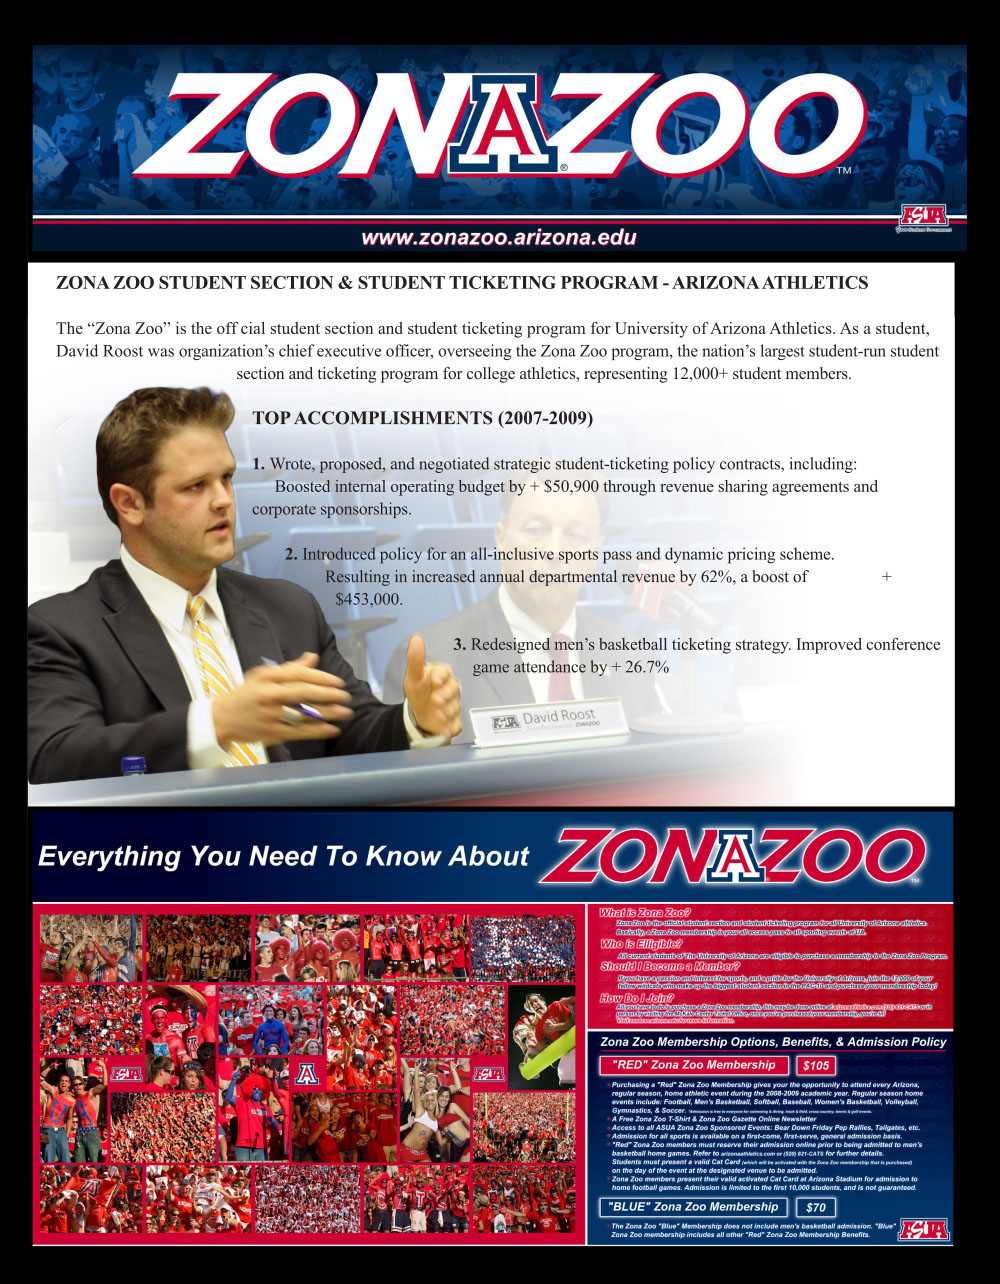
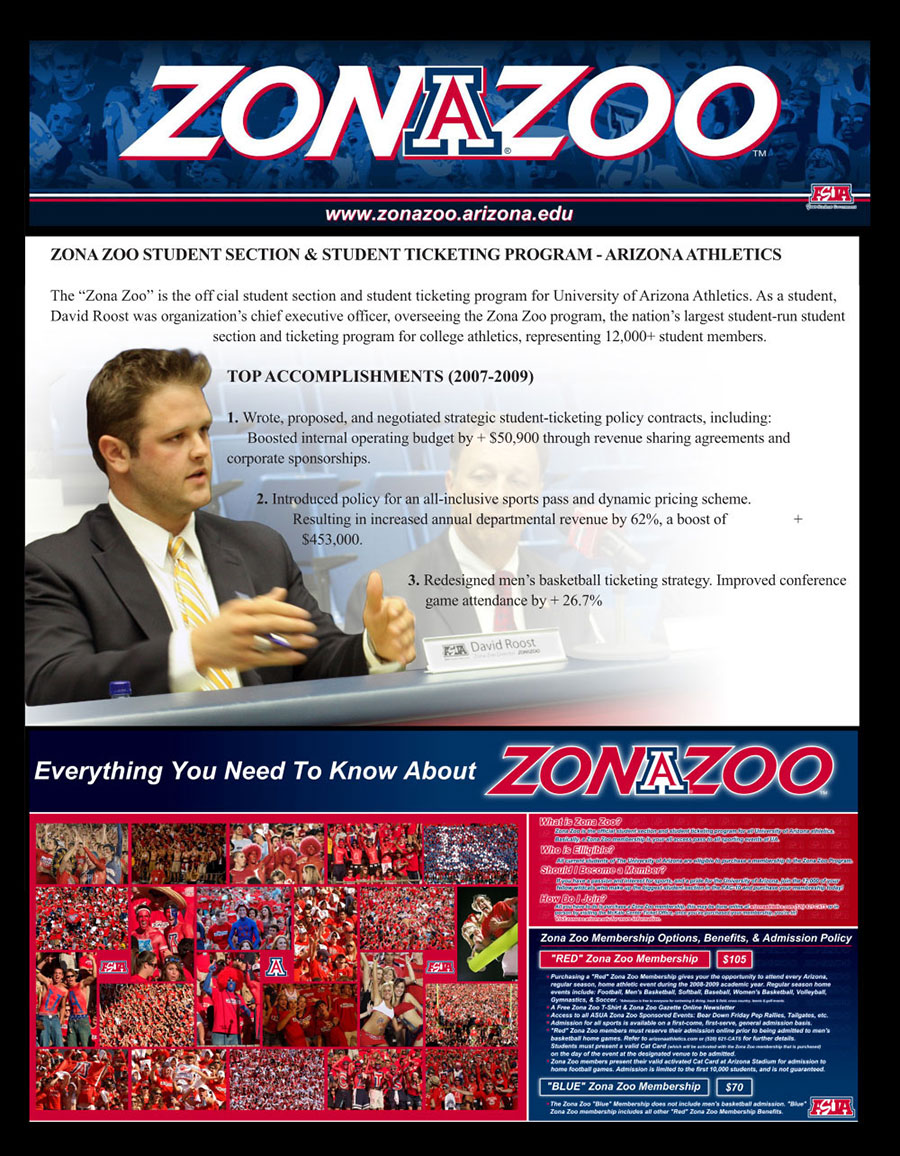
replaced zona zoo images for increased speed

diff --git a/index.html b/index.html
@@ -1463,9 +1463,8 @@
               <section class="popup-left">
                 <div class="project-image">
                   <div><img alt="david roost" src="content/zona-zoo-01.png"></div>
-                  <div class="tallpic"><img alt="david roost" src="content/0001-zz-02.png"></div>
-                  <div class="tallpic"><img alt="david roost" src="content/0001-zz-04.png"></div>
-                  <div><img alt="david roost" src="content/zonazoo_01.JPG"></div>
+                  <div class="tallpic"><img alt="david roost" src="content/0001-zz-02.jpg"></div>
+                  <div class="tallpic"><img alt="david roost" src="content/0001-zz-04.jpg"></div>
                   <br><br>
                   <a class="close-bottom">CLOSE WINDOW</a>
                   <br><br>
